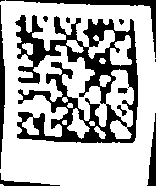
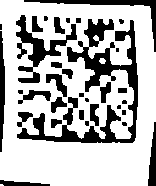
upd

diff --git a/main1.py b/main1.py
@@ -75,7 +75,14 @@ def sharpen_image(image):
 
 def binary_threshold(image, threshold_value=128):
     gray = cv2.cvtColor(image, cv2.COLOR_BGR2GRAY)
+
+    # Применяем пороговое значение для бинаризации
     _, binary_image = cv2.threshold(gray, threshold_value, 255, cv2.THRESH_BINARY)
+
+    # Применение морфологической операции закрытия (для улучшения углов)
+    kernel = np.ones((3, 3), np.uint8)
+    binary_image = cv2.morphologyEx(binary_image, cv2.MORPH_CLOSE, kernel)
+
     return binary_image
 
 
@@ -90,21 +97,15 @@ def extract_detected_objects(image, valid_rects, areas):
         if (mean_area - 1.5 * std_dev) < area < (mean_area + 1.5 * std_dev):
             M = cv2.getRotationMatrix2D((x, y), angle, 1.0)
             rotated = cv2.warpAffine(image, M, (image.shape[1], image.shape[0]))
-
             x1, y1 = int(x - w / 2), int(y - h / 2)
             x2, y2 = int(x + w / 2), int(y + h / 2)
             cropped = rotated[y1:y2, x1:x2]
-
             binary_image = binary_threshold(cropped)
             sharpened_image = sharpen_image(binary_image)
-
             pil_image = Image.fromarray(cv2.cvtColor(sharpened_image, cv2.COLOR_BGR2RGB))
-
             enhancer = ImageEnhance.Contrast(pil_image)
             pil_image = enhancer.enhance(1.5)
-
             pil_image = pil_image.filter(ImageFilter.SHARPEN)
-
             processed_image = cv2.cvtColor(np.array(pil_image), cv2.COLOR_RGB2BGR)
 
             cropped_image_path = os.path.join('detected', f'crop_{idx}.png')
